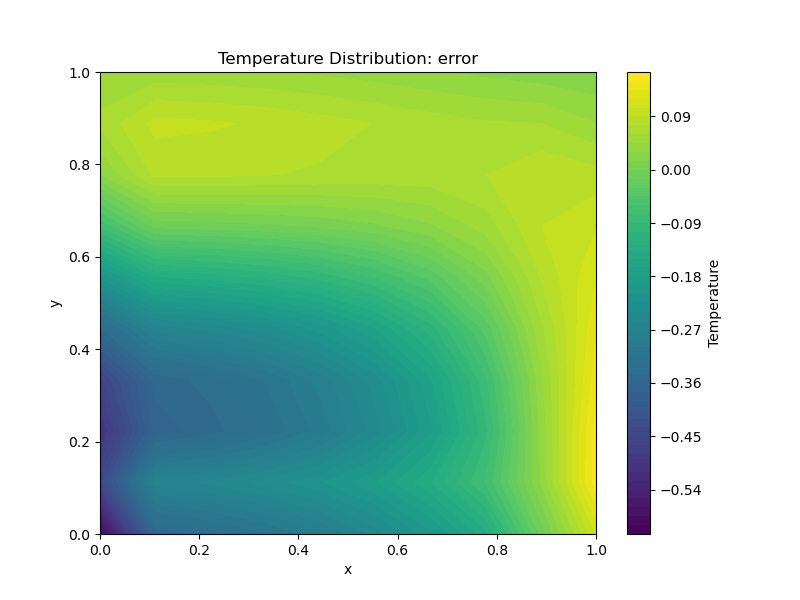
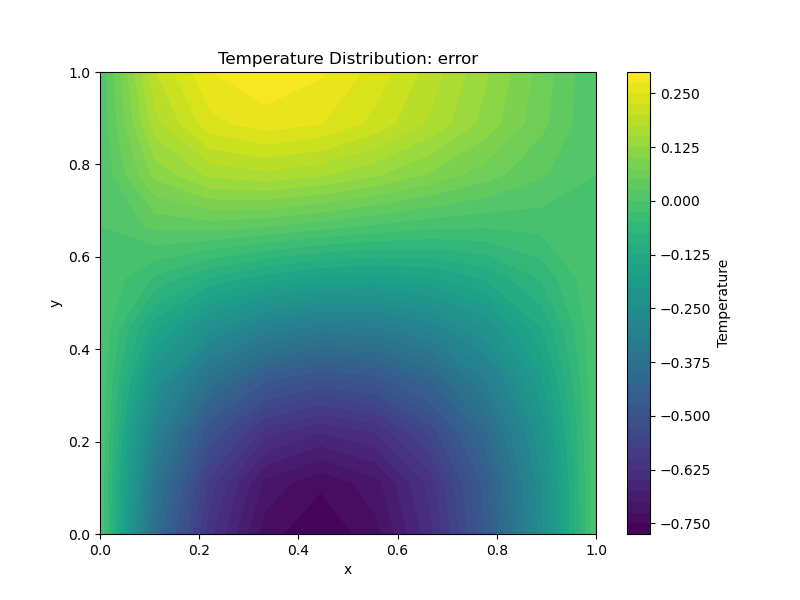
copilot tried to help

diff --git a/homework2/poisson_solver.py b/homework2/poisson_solver.py
@@ -30,8 +30,6 @@ def main():
     T_initial = (2*y**3 - 3*y**2 + 1)
     T_analytical = (1 - x**2)*(2*y**3 - 3*y**2 + 1)
 
-    plot_solution(x, y, T_initial, 'initial', output_file='initial_solution.png')
-
     if method == 'jacobi':
         T, k = jacobi_method(x, y, h, Q, T_initial, k_max, tolerance, verbose)
     elif method == 'gauss-seidel':
@@ -44,6 +42,7 @@ def main():
     if verbose:
         print(f'{method.capitalize()} method converged in {k+1} iterations.')
 
+    plot_solution(x, y, T_initial, 'initial', output_file='initial_solution.png')
     plot_solution(x, y, T, method.capitalize(), output_file=f'{method}_solution.png')
     plot_solution(x, y, T_analytical, 'analytical', output_file='analytical_solution.png')
     plot_solution(x, y, Q, 'source term Q', output_file='source_term_Q.png')
@@ -64,7 +63,7 @@ def jacobi_method(x, y, h, Q, T_initial, k_max, tolerance, verbose):
                  + np.pad(T_old, ((1, 0), (0, 0)), mode='constant')[:-1, :]
                  + np.pad(T_old, ((0, 1), (0, 0)), mode='constant')[1:, :])
         T_new = 0.25 * (neighbors - Q * h**2)
-        # apply_boundary_conditions(x, y, T_new)
+        apply_boundary_conditions(x, y, T_new)
 
         change = np.linalg.norm(T_new - T_old, ord=np.inf)
         if verbose:
@@ -75,15 +74,15 @@ def jacobi_method(x, y, h, Q, T_initial, k_max, tolerance, verbose):
     return T_old, k
 
 def apply_boundary_conditions(x, y, T):
-    # T[0, :] = T[1, :]
-    # T[-1, :] = T[-2, :]
-    # T[:, 0] = (1 - x[:, 0]**2)*(2*y[:, 0]**3 - 3*y[:, 0]**2 + 1)
-    # T[:, -1] = 0
+    T[0, :] = T[1, :]
+    T[-1, :] = T[-2, :]
+    T[:, 0] = (1 - x[:, 0]**2)*(2*y[:, 0]**3 - 3*y[:, 0]**2 + 1)
+    T[:, -1] = 0
 
-    T[0, :] = (1 - x[0, :]**2)*(2*y[0, :]**3 - 3*y[0, :]**2 + 1)
-    T[-1, :] = 0
-    T[:, 0] = T[:, 1]
-    T[:, -1] = T[:, -2]
+    # T[0, :] = (1 - x[0, :]**2)*(2*y[0, :]**3 - 3*y[0, :]**2 + 1)
+    # T[-1, :] = 0
+    # T[:, 0] = T[:, 1]
+    # T[:, -1] = T[:, -2]
 
 def plot_solution(x, y, T, method, output_file=None):
     plt.figure(figsize=(8, 6))
